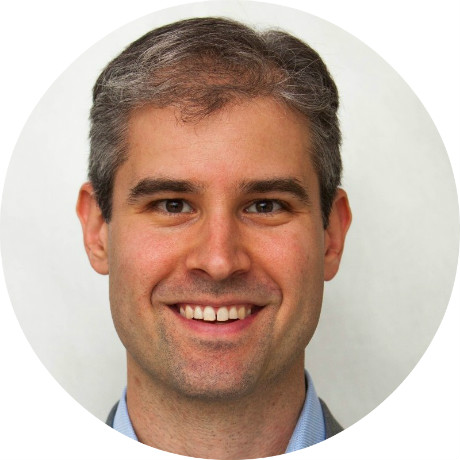
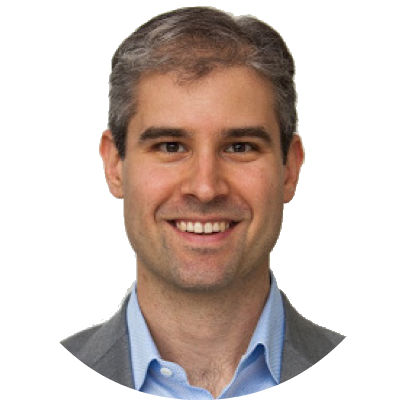
Update team photos

diff --git a/js/team.js b/js/team.js
@@ -2,7 +2,7 @@ var teamMembers = [
 	
 	{
 		name: 'Mat Frenz',
-		photo: 'img/team/mat.png',
+		photo: 'img/team/mat.jpg',
 		post: 'Managing Director',
 		linkedin: 'https://www.linkedin.com/in/mat-frenz-5867b69/',
 		bio: '<p><strong>Mat Frenz</strong> is the Managing Director at Entangled Solutions. He is dedicated to ensuring that the work we produce at Entangled is not only best-in-class, but is also carried out with professionalism, courtesy and integrity.</p><p>Prior to joining Entangled, Mat led platform operations for GlassLab, a non-profit educational technology organization funded by the Gates Foundation and the MacArthur Foundation. There, he was responsible for GlassLab Services, leading product, business and partnership strategy while driving an industry-leading approach to developing, analyzing, and distributing educational games. Mat was also the founder of Precision Response, a software as a service company devoted to supporting nonprofit organizations in their efforts to extend their reach and fundraising capabilities.</p>'
@@ -23,14 +23,14 @@ var teamMembers = [
 	},
 	{
 		name: 'Jason Sanders',
-		photo: 'img/team/03.png',
+		photo: 'img/team/jason.jpg',
 		post: 'CFO',
 		linkedin: 'https://www.linkedin.com/in/jasonwsanders',
 		bio: '<p><strong>Jason Sanders</strong> is a founding partner and COO at Entangled Ventures. Jason combines his operating and investing experience with his passion for educational technology companies. He has run operations for companies of various sizes including Couchsurfing (the world’s largest social travel network with 7MM members) and Fifteen Group ($600MM in real estate assets and 300+ employees).</p><p>Jason has extensive venture capital experience, including seven years with Crosslink Capital (a leading stage-independent firm with over $1.5 billion in assets), where he was a partner focused on business and consumer services. Prior to Crosslink, he was an Associate with Advent International, a global private equity firm. After receiving a BS in Economics from the Wharton School at the University of Pennsylvania, Jason focused on re-engineering operations of major public and private companies as a management consultant with CSC Index. He is an active investor and advisor to numerous private companies.</p>'
 	},
 	{
 		name: 'Deborah Seymour',
-		photo: 'img/team/deborah.png',
+		photo: 'img/team/deb.jpg',
 		post: 'Principal Consultant',
 		linkedin: 'https://www.linkedin.com/in/deborahmseymour',
 		bio: '<p><strong>Deborah Seymour</strong> is a Principal Consultant at Entangled Solutions. Previously, she served as chief academic innovation officer at the American Council on Education, a role in which she oversaw the Council’s agenda to support the return of the United States to global recognition in post-secondary attainment.</p><p>Deborah taught in the City University of New York system for 15 years. She also served as associate director of the Center for Adult Life & Learning at the 92nd Street Y in New York City, with responsibility for adult education programs and strategic partnerships with multiple external organizations. Deborah taught as well at the University of California-Irvine (UCI) and at Orange Coast College. She subsequently became a development officer for the School of Humanities at UCI, before transitioning to Laureate Education. At Laureate, she worked in all facets of product development and product management, both domestically and internationally. Her Laureate career also included research in the area of competency-based education. Deborah holds a BA from Hunter College in business and communications and an MPhil and PhD in theoretical linguistics from the City University of New York Graduate School and University Center.</p>'
@@ -51,7 +51,7 @@ var teamMembers = [
 	},
 	{
 		name: 'Mike Berlin',
-		photo: 'img/team/mike.png',
+		photo: 'img/team/mike.jpg',
 		post: 'Principal Consultant',
 		linkedin: 'https://www.linkedin.com/in/berlinmike',
 		bio: '<p><strong>Mike Berlin</strong> is a Principal Consultant at Entangled Solutions. Mike has a ten-year career investing in, acquiring, advising, and building startups in the Higher Education market. He currently acts as an advisor and mentor to several edtech startups.</p><p>Prior to joining Entangled Solutions, Mike led strategy and M&A at Macmillan New Ventures, global publisher Macmillan’s education innovation division. Previously, Mike has worked as a consultant at L.E.K. Consulting. He has a B.S. in Economics from the Wharton School at the University of Pennsylvania.</p>'
@@ -65,21 +65,21 @@ var teamMembers = [
 	},
 	{
 		name: 'Kyle Cureau',
-		photo: 'img/team/kyle.png',
+		photo: 'img/team/kyle.jpg',
 		post: 'Director of Strategic Initiatives',
 		linkedin: 'https://www.linkedin.com/in/cureau',
 		bio: '<p><strong>Kyle Cureau</strong> is the Director of Strategic Initiatives at Entangled Solutions, currently leading Matterfund, the first real-time graph intelligence platform for international education development. He has consulted across verticals, leading teams to design and develop business models, system architecture, APIs, web apps, and mobile apps.</p><p>He also co-founded the health charity LzA to provide supplies to malnourished children. LzA, in partnership with CORE, PacSun, AmFam, and Birchbox, helped kids and communities in Central America. While still in college, Kyle started his first venture, BuyWell, a Fair Trade coffee roaster and wholesaler. Within three years, he had grown BuyWell to a team of 15, working directly with farming coops in seven countries, and roasting 15,000lbs a month for major retailers.</p><p>With a career bent for impact and a passion for education, Kyle\'s focus is on student experience. He believes strongly in learning-by-doing and learning-by-playing.</p>'
 	},
 	{
 		name: 'Amber Laxton',
-		photo: 'img/team/amber.png',
+		photo: 'img/team/amber.jpg',
 		post: 'Consulting Team Leader',
 		linkedin: 'https://www.linkedin.com/in/amberlaxton',
 		bio: '<p><strong>Amber Laxton</strong> is a Consulting Team Leader at Entangled Solutions. She joins Entangled with over eight years of experience in continuing education, most recently as a Senior Analyst of Continuing Education at Eduventures. She previously worked as the Director of Academic Services at the University of California Santa Cruz Extension and the Enrollment Services Manager at DePaul University Continuing and Professional Education. She has experience developing and managing non-credit and non-degree programs and optimizing technology to improve operational efficiency and student services.</p>'
 	},
 	{
 		name: 'Jasmin Schiener',
-		photo: 'img/team/jasmin.png',
+		photo: 'img/team/jasmin.jpg',
 		post: 'Consulting Team Leader',
 		linkedin: 'https://www.linkedin.com/in/jasminschiener',
 		bio: '<p><strong>Jasmin Schiener</strong> is a Consulting Team Leader at Entangled Solutions. She joins Entangled with deep experience in Higher Education management, most recently as a project manager for a fast-growing for-profit education organization. She previously ran the San Francisco division of a recruiting startup focused on the Bay Area tech industry. Jasmin earned a law degree at Bucerius Law school in Germany, and is experienced in program development, market analysis, M&A, healthcare education and the creation of sustainable operations infrastructure for highly regulated education entities.</p>'
@@ -93,14 +93,14 @@ var teamMembers = [
 	},
 	{
 		name: 'Casey Boyles',
-		photo: 'img/team/casey.png',
+		photo: 'img/team/casey.jpg',
 		post: 'Partnerships Manager',
 		linkedin: 'https://www.linkedin.com/in/caseythomasboyles',
 		bio: '<p><strong>Casey Boyles</strong> is the Partnerships Manager at Entangled Solutions. Prior to joining the team she spent the last 4 years working with Bay Area startups, helping to build sales, customer success and customer support teams. She has experience building summer school programs and has a passion for continuing education.</p><p>Casey earned a degree in Physics at King’s College London, a masters degree in Nanotechnology from the University of Pennsylvania and spent a year doing research on Electrical & Computer Engineering at the National University of Singapore.</p>'
 	},
 	{
 		name: 'Faz Nassiri',
-		photo: 'img/team/faz.png',
+		photo: 'img/team/faz.jpg',
 		post: 'Operations Manager',
 		linkedin: 'https://www.linkedin.com/in/fazilatnassiri',
 		bio: '<p><strong>Faz Nassiri</strong> is the Operations Manager at Entangled Solutions. She ensures that internal processes and workflows run smoothly and helps coordinate with external contractors and subject matter experts. Before joining Entangled she handled operations for two tech startups at SkyDeck, UC Berkeley’s startup incubator. Prior to coming to the Bay Area, she worked as an an assistant producer in television in London. Faz holds a BA in engineering and a master’s degree in International Business Management.</p>'

diff --git a/about.html b/about.html
@@ -24,7 +24,7 @@
 		<script src="js/SocialShare.js?1"></script>
 		<script src="js/fancybox/jquery.fancybox.js?1"></script>
 		<script src="js/slick.js?1"></script>
-		<script src="js/team.js?20"></script>
+		<script src="js/team.js?21"></script>
 		<script src="js/scripts.js?1"></script>
 	</head>
 	<body>
